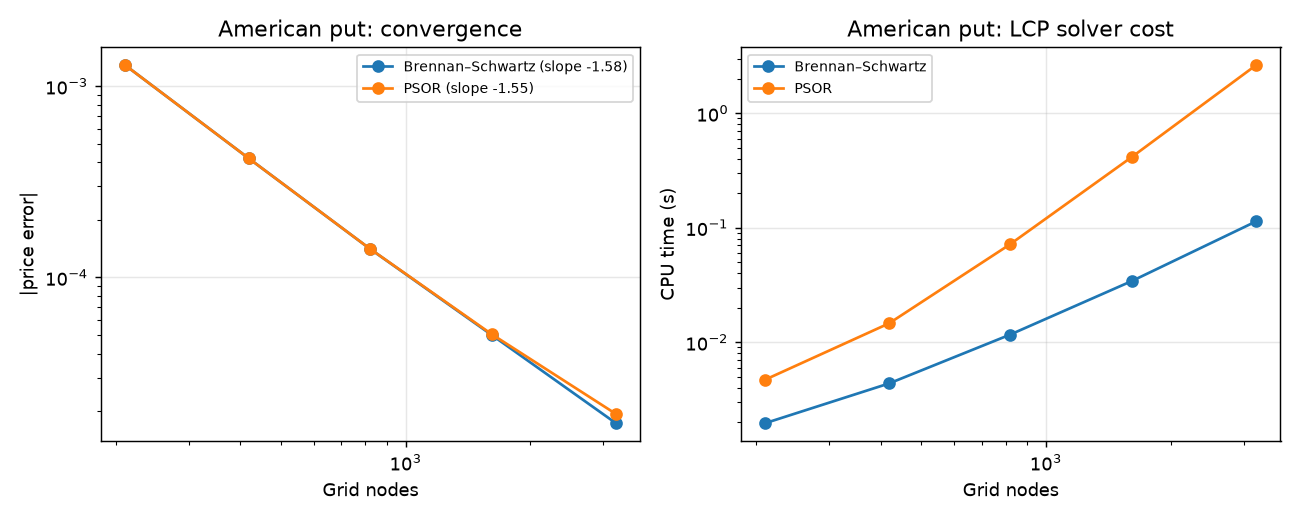
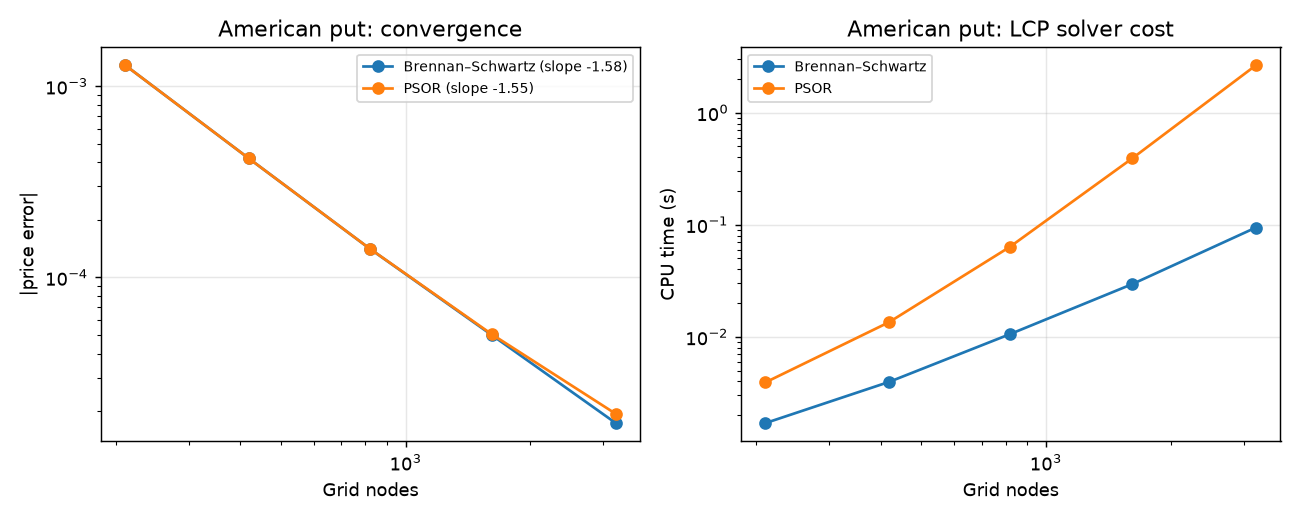
Warm up the CPU before timing convergence studies

diff --git a/pricing/convergence.py b/pricing/convergence.py
@@ -1,4 +1,5 @@
 from dataclasses import replace
+from time import perf_counter
 
 import numpy as np
 import pandas as pd
@@ -17,9 +18,17 @@ def _best_of(pricer, repeats):
     return results[-1], min(r.elapsed for r in results)
 
 
+def _warm_up(pricer, seconds=0.05):
+    """Run untimed until the CPU has left its idle state and caches are hot (otherwise small runs look slow)."""
+    start = perf_counter()
+    while perf_counter() - start < seconds:
+        pricer()
+
+
 def mc_convergence(model, product, config, n_values, repeats=3) -> pd.DataFrame:
     exact = reference_price(model, product)
     rows = []
+    _warm_up(lambda: price_mc(model, product, replace(config, n_paths=int(min(n_values)))))
     for n in n_values:
         res, elapsed = _best_of(lambda: price_mc(model, product, replace(config, n_paths=int(n))), repeats)
         rows.append({
@@ -39,8 +48,13 @@ def pde_convergence(model, product, config, n_space_values, repeats=3) -> pd.Dat
     exact = reference_price(model, product)
     ratio = config.n_time / config.n_space
     rows = []
+
+    def config_for(n):
+        return replace(config, n_space=int(n), n_time=max(1, config.rannacher_steps, round(n * ratio)))
+
+    _warm_up(lambda: price_pde(model, product, config_for(min(n_space_values))))
     for n in n_space_values:
-        cfg = replace(config, n_space=int(n), n_time=max(1, config.rannacher_steps, round(n * ratio)))
+        cfg = config_for(n)
         res, elapsed = _best_of(lambda: price_pde(model, product, cfg), repeats)
         rows.append({
             "n_space": cfg.n_space,

diff --git a/README.md b/README.md
@@ -12,12 +12,12 @@ Convergence studies measure the empirical order of each method and its accuracy 
 | | Result |
 |---|---|
 | Monte Carlo convergence | CI half-width ∝ N^−0.50 for every technique: variance reduction moves the line down, it does not change the slope |
-| Best variance reduction (ATM call) | **Stratification: variance ÷159**, efficiency ×105 at equal CPU time. Control variate ÷6.9, antithetics ÷2.0 |
+| Best variance reduction (ATM call) | **Stratification: variance ÷159**, efficiency ≈ ×100 at equal CPU time. Control variate ÷6.9, antithetics ÷2.0 |
 | Crank–Nicolson order | Price, delta and gamma errors ∝ N^−2.0 with Rannacher start-up |
 | Rannacher start-up | With N_t = N_x/8, the pure-CN gamma error **grows** with refinement (slope +1.0). Rannacher restores slope −2.0 |
 | MC vs PDE (European, 1D) | For an error of 10⁻³, the PDE is ~100× faster than the best Monte Carlo |
 | American put (K = 40, S₀ = 36) | Reference 4.48667. PDE and an independent BBSR binomial tree agree to 10⁻⁵. The value in Longstaff–Schwartz (2001, Table 1), 4.478, comes from a coarse grid |
-| LCP solvers | PSOR and Brennan–Schwartz give the same solution (10⁻⁶). At 3 200 nodes, Brennan–Schwartz is **23× faster** (0.11 s vs 2.6 s) |
+| LCP solvers | PSOR and Brennan–Schwartz give the same solution (10⁻⁶). At 3 200 nodes, Brennan–Schwartz is **~25× faster** (0.1 s vs 2.6 s) |
 | Longstaff–Schwartz | Downward Bermudan bias: −0.28 with 2 exercise dates, −0.01 with 50 |
 
 ## Figures

diff --git a/docs/figures/results.md b/docs/figures/results.md
@@ -1,15 +1,15 @@
 | Technique | Std error at N = 10⁶ | Variance reduction | Time (ms) | Efficiency gain |
 |---|---|---|---|---|
-| none | 0.01473 | ×1.0 | 73 | ×1.0 |
-| antithetic | 0.01042 | ×2.0 | 68 | ×2.1 |
-| control_variate | 0.00562 | ×6.9 | 91 | ×5.5 |
-| importance_sampling | 0.01473 | ×1.0 | 78 | ×0.9 |
-| stratification | 0.00117 | ×159.1 | 110 | ×105.5 |
-| conditioning | 0.00969 | ×2.3 | 173 | ×1.0 |
+| none | 0.01473 | ×1.0 | 72 | ×1.0 |
+| antithetic | 0.01042 | ×2.0 | 71 | ×2.0 |
+| control_variate | 0.00562 | ×6.9 | 102 | ×4.9 |
+| importance_sampling | 0.01473 | ×1.0 | 82 | ×0.9 |
+| stratification | 0.00117 | ×159.1 | 113 | ×101.5 |
+| conditioning | 0.00969 | ×2.3 | 175 | ×0.9 |
 
 European call closed form: 10.450584
-Brennan–Schwartz: errors 1.3e-03, 4.2e-04, 1.4e-04, 5.0e-05, 1.7e-05; times (ms) 2, 4, 12, 34, 113
-PSOR: errors 1.3e-03, 4.2e-04, 1.4e-04, 5.0e-05, 1.9e-05; times (ms) 5, 15, 71, 416, 2624
+Brennan–Schwartz: errors 1.3e-03, 4.2e-04, 1.4e-04, 5.0e-05, 1.7e-05; times (ms) 2, 4, 11, 30, 94
+PSOR: errors 1.3e-03, 4.2e-04, 1.4e-04, 5.0e-05, 1.9e-05; times (ms) 4, 14, 63, 391, 2651
 
 American put reference (S0=36): 4.486671
 LSM 2 dates: 4.2057 ± 0.0165 (bias -0.2810)
